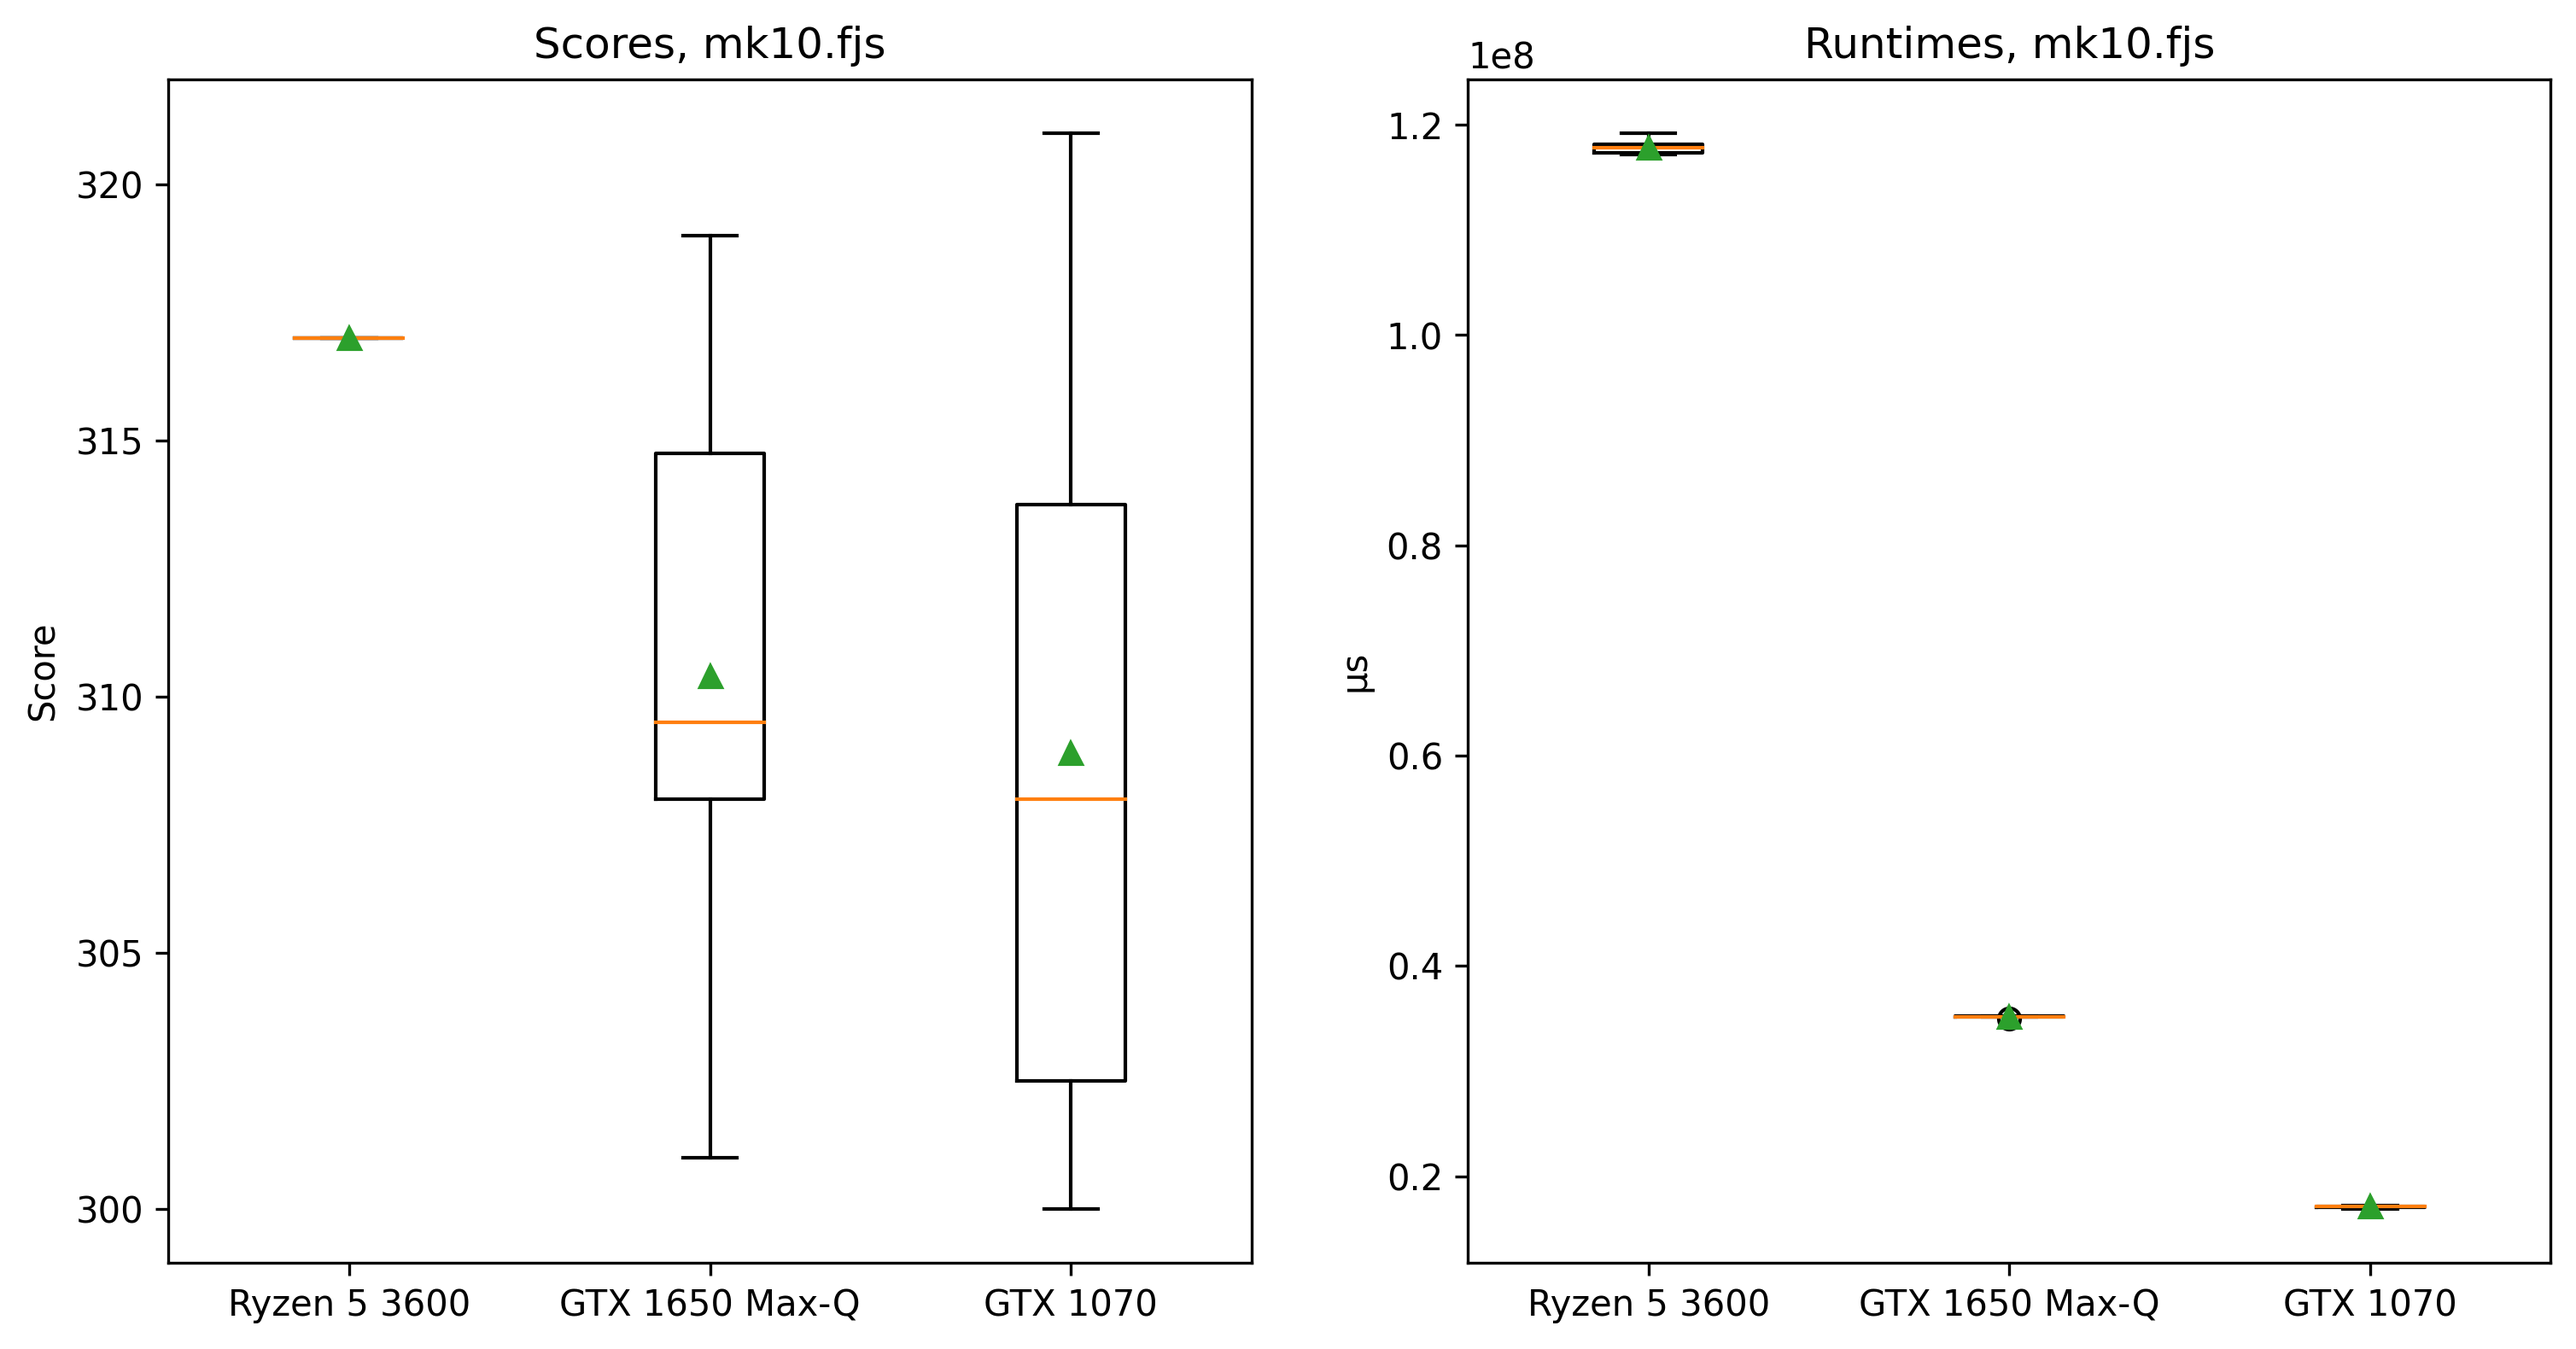
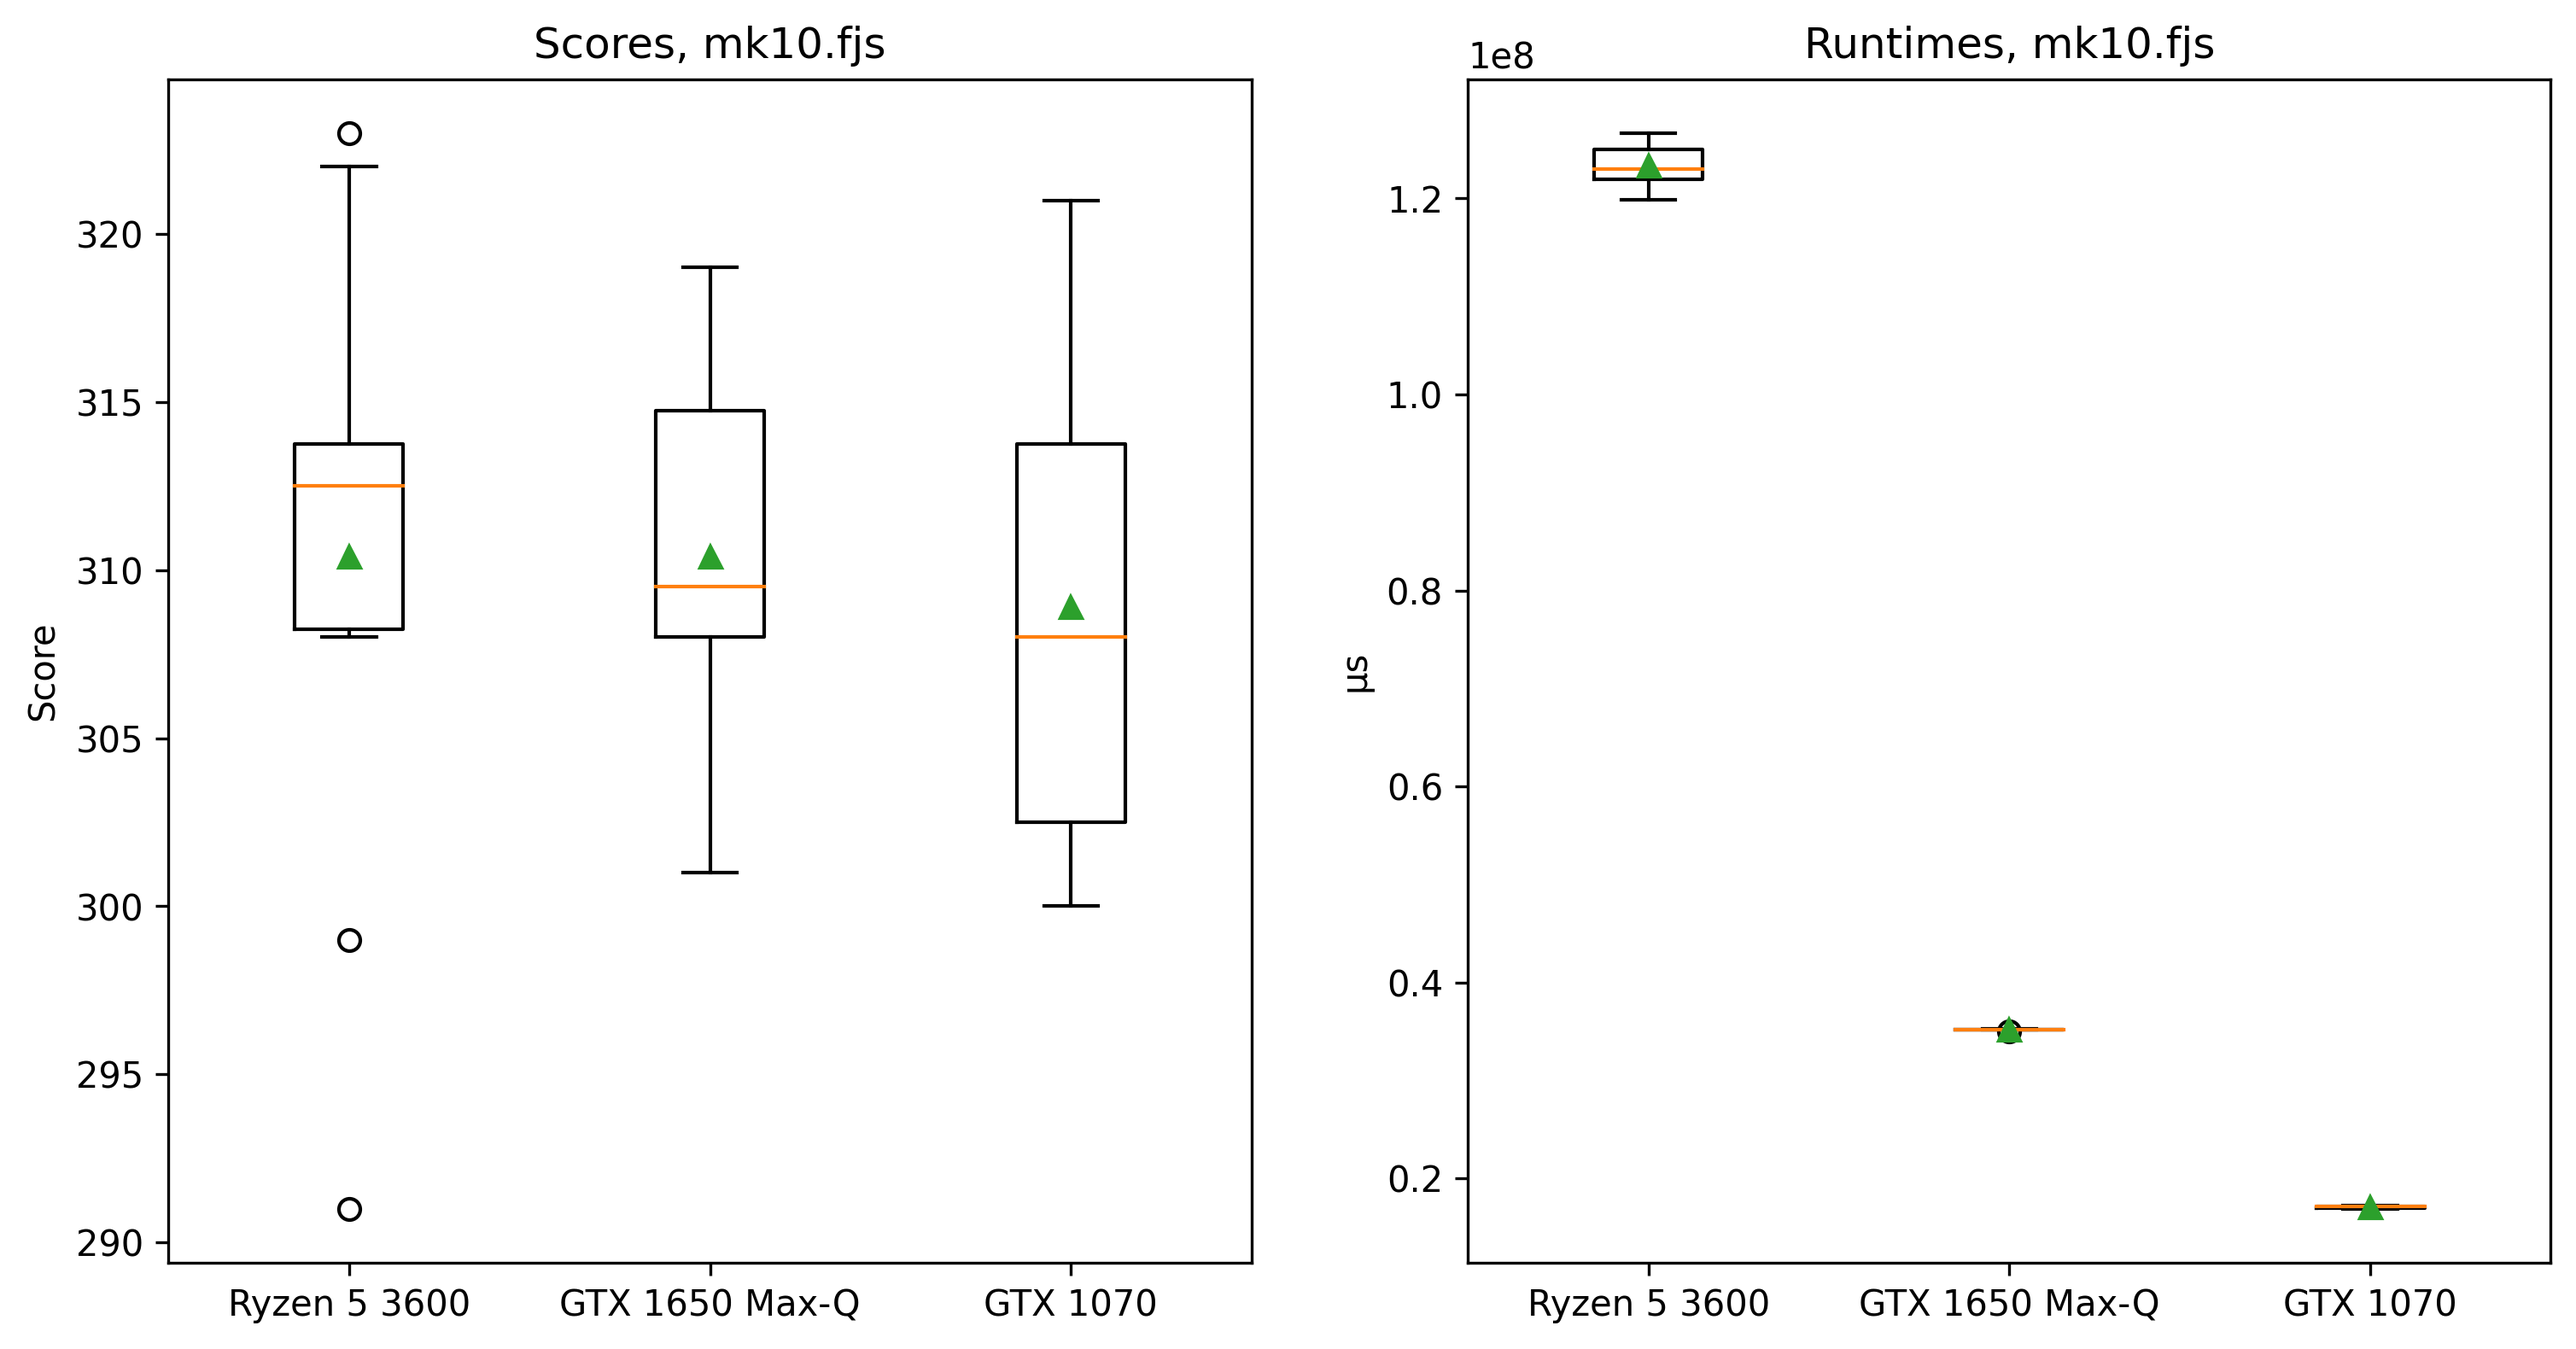
added new cpu results

diff --git a/generate_data.py b/generate_data.py
@@ -3,12 +3,12 @@ from pathlib import Path
 
 
 ##### CONFIG #####
-#PROCESSING_UNIT = "cpu"
-PROCESSING_UNIT = "gpu"
+PROCESSING_UNIT = "cpu"
+# PROCESSING_UNIT = "gpu"
 RUNS = 10
-#RESULTS_FOLDER = f"./results/ryzen/"
-RESULTS_FOLDER = f"./results/gtx1650/"
-#RESULTS_FOLDER = f"./results/gtx1070/"
+RESULTS_FOLDER = f"./results/ryzen/"
+# RESULTS_FOLDER = f"./results/gtx1650/"
+# RESULTS_FOLDER = f"./results/gtx1070/"
 ##### CONFIG END #####
 
 
